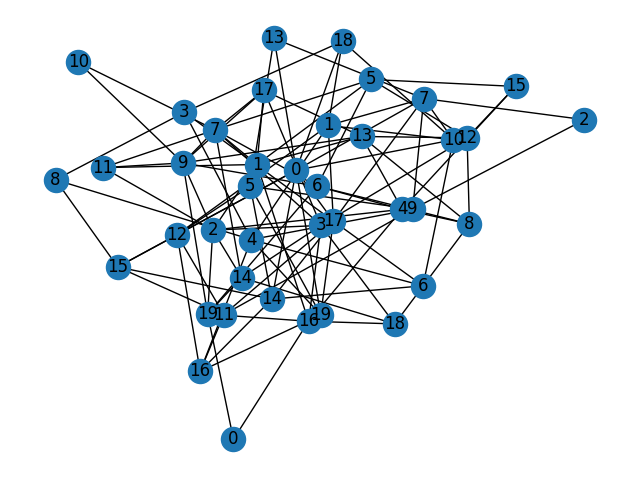
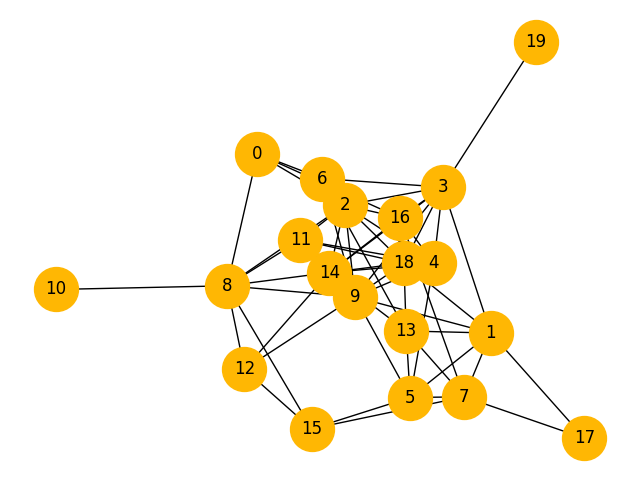
working on model

diff --git a/Phase 1/model/agent.py b/Phase 1/model/agent.py
@@ -121,6 +121,7 @@ class Agent:
 
     def select_action(self, state):
         global steps_done
+        steps_done = 0
         self.sample = random.random()
 
         self.eps_threshold = self.eps_end + (self.eps_start - self.eps_end) * math.exp(-1 * steps_done / self.eps_delay)
@@ -186,19 +187,36 @@ class Agent:
             epochs: number of times the agent will attempt to explore the network (episode ends at terminal states)
         """
         for episode in range(epochs):
-            state, pos, score = self.env.reset()
+            state, pos, score = self.env.reset().values()
+
+            """NOTE
+            state : current node the agent is at
+            pos : the position of the agent will be where the 1 is in the array of zeros
+            score : stealth score
+            """
+            print(state, pos, score)
             self.state = torch.tensor(state, dtype=torch.float32).unsqueeze(0)
 
-            for t in pos():
+            for t in pos:
+                # print(t)
+                # print(pos)
                 self.action = self.select_action(state)
+                print(f"ACTION: {self.action}")
                 observation, reward, terminated, truncated = self.env.step(self.action.item())
+                print(f"OBS: {observation}, REWARD: {reward}, WAS IT TERMINATED: {terminated}, TRUNC: {truncated}")
                 self.reward = torch.tensor([reward]) 
                 done = terminated or truncated
+
+                # flatten the observation into a vector
+                print(observation)
+                print(self.env.num_nodes)
+                flat_obs = self.env.flatten_observation(observation, self.env.num_nodes)
+
 
                 if terminated:
                     self.next_state = None
                 else:
-                    self.next_state = torch.tensor(observation, dtype=torch.float32).unsqueeze(0)
+                    self.next_state = torch.tensor(flat_obs, dtype=torch.float32).unsqueeze(0)
 
                 # store the agent's transition in memory
                 self.agent_memory.push(self.state, self.action, self.next_state, self.reward)

diff --git a/Phase 1/env/network.py b/Phase 1/env/network.py
@@ -41,7 +41,8 @@ class NetworkEnvironment(gym.Env):
 
         # actions (0-4)
         self.action_space = spaces.Discrete(5)
-        self.nA = len(self.action_space)  # number of actions
+        print(f"NUMBER OF ACTIONS: {self.action_space.n}")
+        self.nA = self.action_space.n  # number of actions
 
         # observation: discovered nodes + current node ID + stealth
         self.observation_space = spaces.Dict({
@@ -80,7 +81,7 @@ class NetworkEnvironment(gym.Env):
         """
         Resets the environment to the beginning of a new episode and returns the initial observation.
         """
-        self.agent_pos = random.choice(list(self.graph_nodes))
+        self.agent_pos = random.choice(list(self.graph.nodes))
         self.discovered = {self.agent_pos}
         self.stealth_score = 5
 
@@ -98,6 +99,23 @@ class NetworkEnvironment(gym.Env):
             "discovered": discovered,
             "stealth_score": np.array([self.stealth_score], dtype=np.float32),
         }
+    
+    def flatten_observation(obs, num_nodes):
+        """
+        Converts the structured observation dict into a flat vector.
+        """
+        # One-hot encode current_node
+        current_node_vec = np.eye(num_nodes)[obs["current_node"]]
+
+        # Discovered is already binary vector of size num_nodes
+        discovered_vec = obs["discovered"]
+
+        # Stealth score is already a 1-element array
+        stealth_vec = obs["stealth_score"]
+
+        # Concatenate all into one vector
+        return np.concatenate((current_node_vec, discovered_vec, stealth_vec), axis=0)
+
     
     # NEED TO ADD MORE TO EXPLORE, DISCOVER AND DETECT
     # LOG ACTIONS

diff --git a/Phase 1/main.py b/Phase 1/main.py
@@ -3,12 +3,12 @@ from env.network import NetworkEnvironment
 from model.agent import Agent
 
 # initializes the imports
-environment = NetworkEnvironment()  # ERROR NETWORK LINE self.nA (object of type discrete has no len())
+environment = NetworkEnvironment() 
 
 # get the state and action size
 state_size = environment.nS
 action_size = environment.nA
-bob = Agent(environment, state_size, action_size)
+bob = Agent(environment, state_size, action_size)  # ERROR AGENT self.state line 211
 
 # run an episode loop
 bob.training(500)
